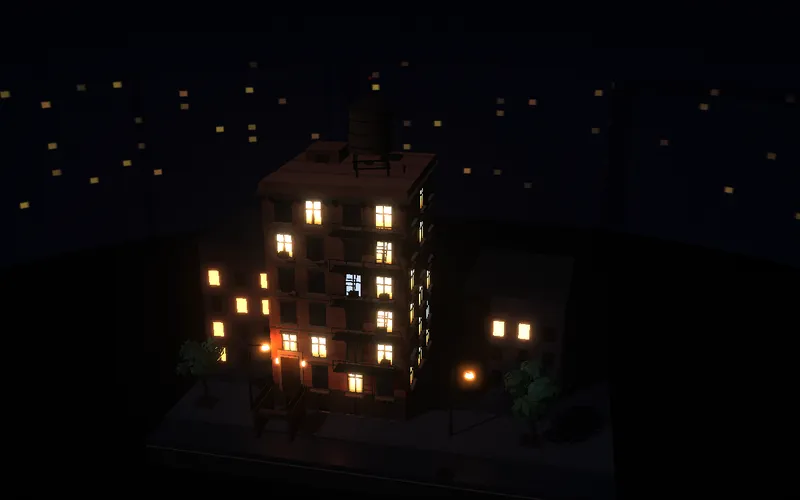
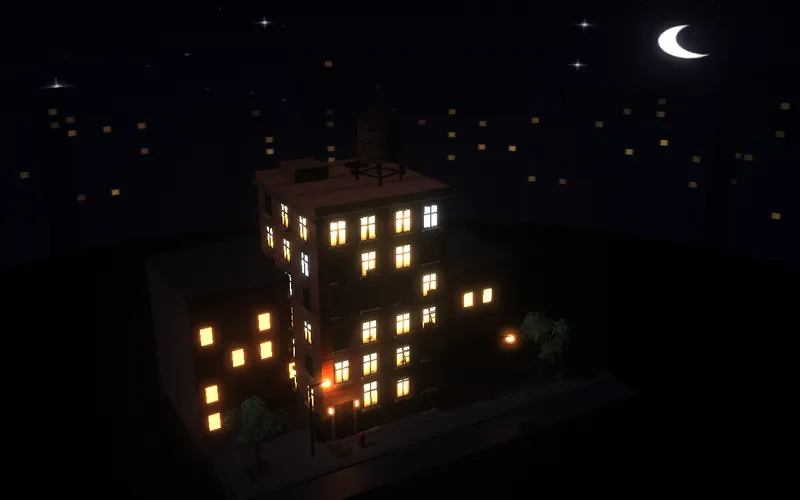
Walk-Up: starry night with crescent moon, stoop removed
- Backdrop sky rebuilt: 420-star field with brightness falloff, faint
  milky drift band, sparkle stars, and a proper crescent moon with a
  soft halo, all placed in the band the hero camera actually sees
- Entrance simplified to street level: the half-lit stoop mass read as
  clutter in front of the door; door, transom, and lanterns now sit on
  the sidewalk

Built with Claude Code (LiFi NYC)

diff --git a/app/public/examples/lab/concepts/walkup-3d/walkup.js b/app/public/examples/lab/concepts/walkup-3d/walkup.js
@@ -101,19 +101,50 @@ function backdropTexture() {
   sky.addColorStop(0.86, '#25254a');
   sky.addColorStop(1, '#332947');
   g.fillStyle = sky; g.fillRect(0, 0, 2048, 512);
-  // stars
-  for (let i = 0; i < 90; i++) {
-    g.fillStyle = `rgba(220,230,255,${rand(0.08, 0.5)})`;
-    g.fillRect(rand(0, 2048), rand(0, 210), rand(0.6, 1.8), rand(0.6, 1.8));
+  // starfield — dense, varied, brighter high in the sky
+  for (let i = 0; i < 420; i++) {
+    const sy = rand(0, 415);
+    const a = rand(0.16, 0.95) * (1 - sy / 640);
+    g.fillStyle = `rgba(226,233,255,${a.toFixed(3)})`;
+    g.beginPath(); g.arc(rand(0, 2048), sy, rand(0.5, 1.7), 0, Math.PI * 2); g.fill();
   }
-  // moon glow
-  const mg = g.createRadialGradient(330, 70, 3, 330, 70, 58);
-  mg.addColorStop(0, 'rgba(215,226,255,0.32)');
-  mg.addColorStop(0.25, 'rgba(205,218,255,0.10)');
+  // a faint drift of micro-stars, like a thin milky band
+  for (let i = 0; i < 160; i++) {
+    const bx = rand(0, 2048);
+    const by = 265 + Math.sin(bx / 340) * 55 + rand(-30, 30);
+    g.fillStyle = `rgba(214,224,250,${rand(0.05, 0.2).toFixed(3)})`;
+    g.beginPath(); g.arc(bx, by, rand(0.4, 0.9), 0, Math.PI * 2); g.fill();
+  }
+  // a handful of hero stars with cross sparkle
+  for (let i = 0; i < 12; i++) {
+    const sx = rand(40, 2008), sy = rand(225, 385), sr = rand(2.6, 4.6);
+    const halo = g.createRadialGradient(sx, sy, 0.5, sx, sy, sr * 2.2);
+    halo.addColorStop(0, 'rgba(240,246,255,0.95)');
+    halo.addColorStop(0.4, 'rgba(226,235,255,0.25)');
+    halo.addColorStop(1, 'rgba(226,235,255,0)');
+    g.fillStyle = halo;
+    g.beginPath(); g.arc(sx, sy, sr * 2.2, 0, Math.PI * 2); g.fill();
+    g.strokeStyle = 'rgba(238,244,255,0.55)';
+    g.lineWidth = 0.8;
+    g.beginPath(); g.moveTo(sx - sr * 2.6, sy); g.lineTo(sx + sr * 2.6, sy); g.stroke();
+    g.beginPath(); g.moveTo(sx, sy - sr * 2.6); g.lineTo(sx, sy + sr * 2.6); g.stroke();
+  }
+  // crescent moon, lit limb facing the scene
+  const mx = 505, my = 262, mr = 19;
+  g.fillStyle = 'rgba(242,246,255,0.98)';
+  g.beginPath(); g.arc(mx, my, mr, 0, Math.PI * 2); g.fill();
+  const cutSky = g.createLinearGradient(0, 0, 0, 512);
+  cutSky.addColorStop(0, '#04060d');
+  cutSky.addColorStop(0.55, '#111a36');
+  cutSky.addColorStop(0.86, '#25254a');
+  cutSky.addColorStop(1, '#332947');
+  g.fillStyle = cutSky;
+  g.beginPath(); g.arc(mx - mr * 0.5, my - mr * 0.22, mr * 0.94, 0, Math.PI * 2); g.fill();
+  const mg = g.createRadialGradient(mx + mr * 0.35, my + mr * 0.18, 2, mx + mr * 0.35, my + mr * 0.18, mr * 3.6);
+  mg.addColorStop(0, 'rgba(215,226,255,0.20)');
+  mg.addColorStop(0.4, 'rgba(205,218,255,0.07)');
   mg.addColorStop(1, 'rgba(205,218,255,0)');
-  g.fillStyle = mg; g.fillRect(0, 0, 2048, 512);
-  g.fillStyle = 'rgba(234,240,255,0.95)';
-  g.beginPath(); g.arc(330, 70, 9, 0, Math.PI * 2); g.fill();
+  g.fillStyle = mg; g.fillRect(mx - mr * 5, my - mr * 5, mr * 10, mr * 10);
   // skyline layers
   const layer = (baseY, color, winAlpha) => {
     g.fillStyle = color;
@@ -445,43 +476,24 @@ let beacon, beaconLight;
   }
   bld.add(collectMerged(courses, M.stoneDark, { shadow: false }));
 
-  /* stoop + entrance at bay 0 */
+  /* street-level entrance at bay 0 */
   {
     const doorX = bays[0];
-    const stoop = new THREE.Group();
-    const steps = 6, stepH = (GARDEN_H + 0.28) / steps;
-    for (let i = 0; i < steps; i++) {
-      const st = box(1.5, stepH, 0.34, M.base, 0, stepH / 2 + i * stepH, -i * 0.3);
-      st.castShadow = true; st.receiveShadow = true;
-      stoop.add(st);
-    }
-    for (const sx of [-0.82, 0.82]) {
-      const cheek = box(0.16, GARDEN_H + 0.5, steps * 0.32 + 0.2, M.base, sx, (GARDEN_H + 0.5) / 2, -(steps * 0.3) / 2 + 0.1);
-      cheek.castShadow = true;
-      stoop.add(cheek);
-      const rail = box(0.05, 0.5, steps * 0.32, M.metalDark, sx, GARDEN_H + 0.68, -(steps * 0.3) / 2 + 0.06);
-      stoop.add(rail);
-      for (let i = 0; i < 5; i++) stoop.add(box(0.03, 0.44, 0.03, M.metalDark, sx, GARDEN_H + 0.42, -i * 0.36 + 0.62));
-    }
-    stoop.position.set(doorX, 0, B.d / 2 + 0.92);
-    stoop.rotation.y = Math.PI;
-    bld.add(stoop);
-
-    const doorFrame = box(1.24, 2.2, 0.14, M.stone, doorX, GARDEN_H + 1.12, B.d / 2 + 0.04);
-    const door = box(0.96, 1.9, 0.08, M.door, doorX, GARDEN_H + 0.97, B.d / 2 + 0.08);
+    const doorFrame = box(1.24, 2.3, 0.14, M.stone, doorX, 1.17, B.d / 2 + 0.04);
+    const door = box(0.96, 2.0, 0.08, M.door, doorX, 1.02, B.d / 2 + 0.08);
     door.castShadow = true;
     const transomMat = new THREE.MeshStandardMaterial({ color: '#1c130a', emissive: '#ffc890', emissiveIntensity: 3.4, roughness: 0.4 });
     const transom = new THREE.Mesh(new THREE.PlaneGeometry(0.9, 0.26), transomMat);
-    transom.position.set(doorX, GARDEN_H + 2.06, B.d / 2 + 0.09);
+    transom.position.set(doorX, 2.18, B.d / 2 + 0.09);
     bld.add(doorFrame, door, transom);
     const lanternMat = new THREE.MeshStandardMaterial({ color: '#2a1c0c', emissive: '#ffd9a0', emissiveIntensity: 4.2, roughness: 0.5 });
     for (const lx of [doorX - 0.66, doorX + 0.66]) {
       const lantern = new THREE.Mesh(new THREE.BoxGeometry(0.12, 0.22, 0.12), lanternMat);
-      lantern.position.set(lx, GARDEN_H + 1.62, B.d / 2 + 0.1);
+      lantern.position.set(lx, 1.78, B.d / 2 + 0.1);
       bld.add(lantern);
     }
     const stoopLight = new THREE.PointLight('#ffc27a', 5.2, 8, 2);
-    stoopLight.position.set(doorX, GARDEN_H + 1.75, B.d / 2 + 0.85);
+    stoopLight.position.set(doorX, 1.9, B.d / 2 + 0.85);
     bld.add(stoopLight);
   }
 

diff --git a/app/public/examples/lab/index.html b/app/public/examples/lab/index.html
@@ -42,7 +42,7 @@
       <a class="lab-hero__visual" href="/examples/lab/concepts/walkup-3d/" aria-label="Open the Six-Story Walk-Up">
         <img
           class="lab-hero__brownstone"
-          src="/examples/lab/assets/brownstone-poster.webp?v=4"
+          src="/examples/lab/assets/brownstone-poster.webp?v=5"
           width="1280"
           height="800"
           alt="Night view of the Six-Story Walk-Up diorama"
@@ -74,7 +74,7 @@
         <div class="concept-shelf concept-shelf--duo">
           <a class="concept-card concept-card--feature" data-concept-card href="/examples/lab/concepts/walkup-3d/">
             <div class="concept-card__media">
-              <img src="/examples/lab/assets/brownstone-poster.webp?v=4" width="1280" height="800" alt="Six-Story Walk-Up at night" loading="eager" decoding="sync">
+              <img src="/examples/lab/assets/brownstone-poster.webp?v=5" width="1280" height="800" alt="Six-Story Walk-Up at night" loading="eager" decoding="sync">
             </div>
             <div class="concept-card__copy">
               <span class="concept-card__type">Capability build</span>
